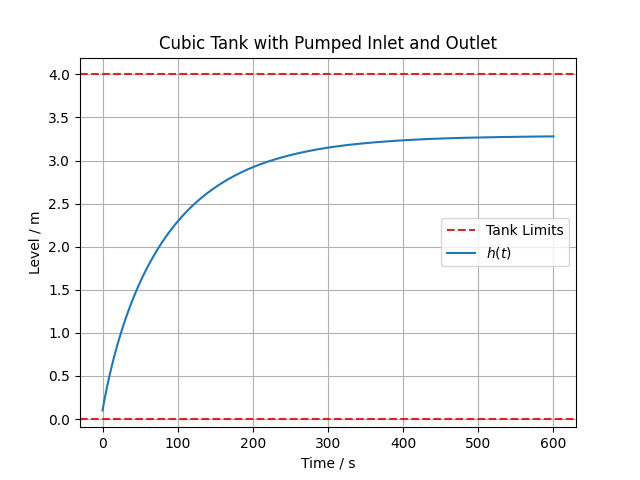
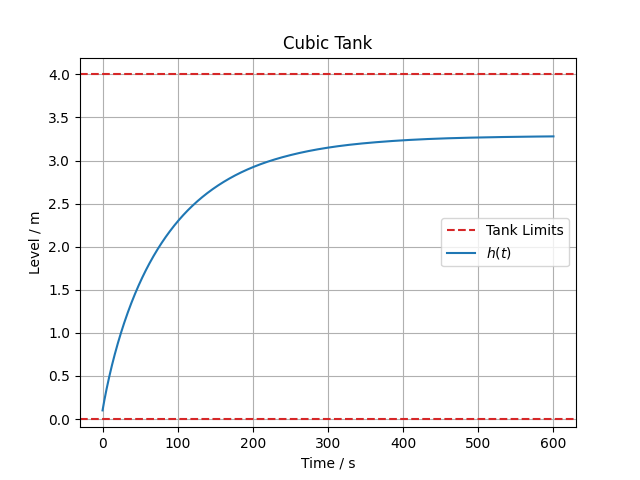
Fix cubic tank plot title

Changed region(s): [[0.25, 0.0625, 0.7812, 0.125]]

diff --git a/models/tank/cubic/sim_scipy.py b/models/tank/cubic/sim_scipy.py
@@ -71,7 +71,7 @@ plt.axhline(0, color="tab:red", linestyle="--")
 
 plt.xlabel("Time / s")
 plt.ylabel("Level / m")
-plt.title("Cubic Tank with Pumped Inlet and Outlet")
+plt.title("Cubic Tank")
 plt.grid(True)
 plt.legend()
 
